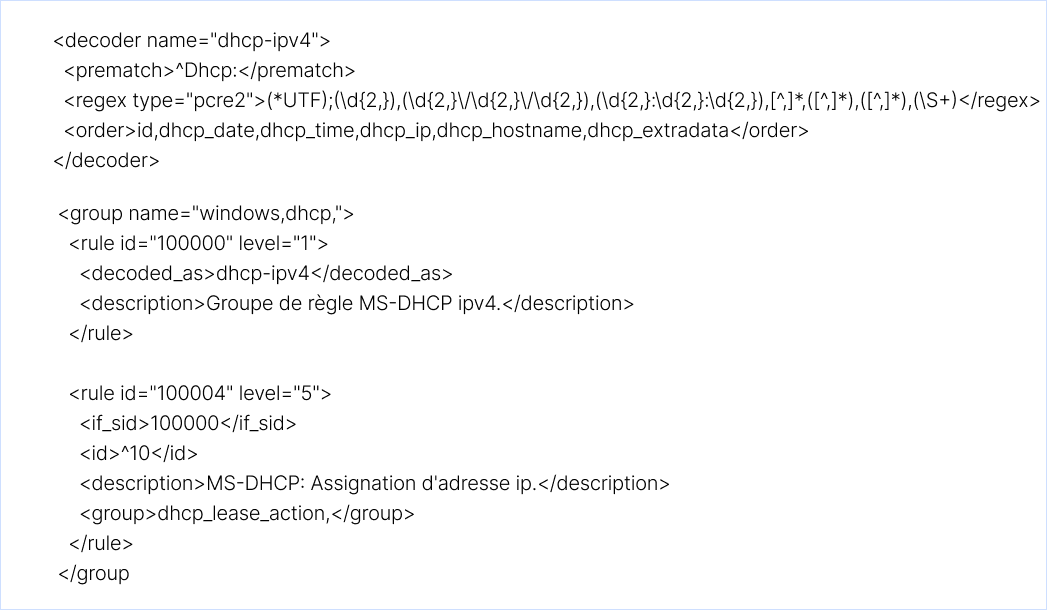
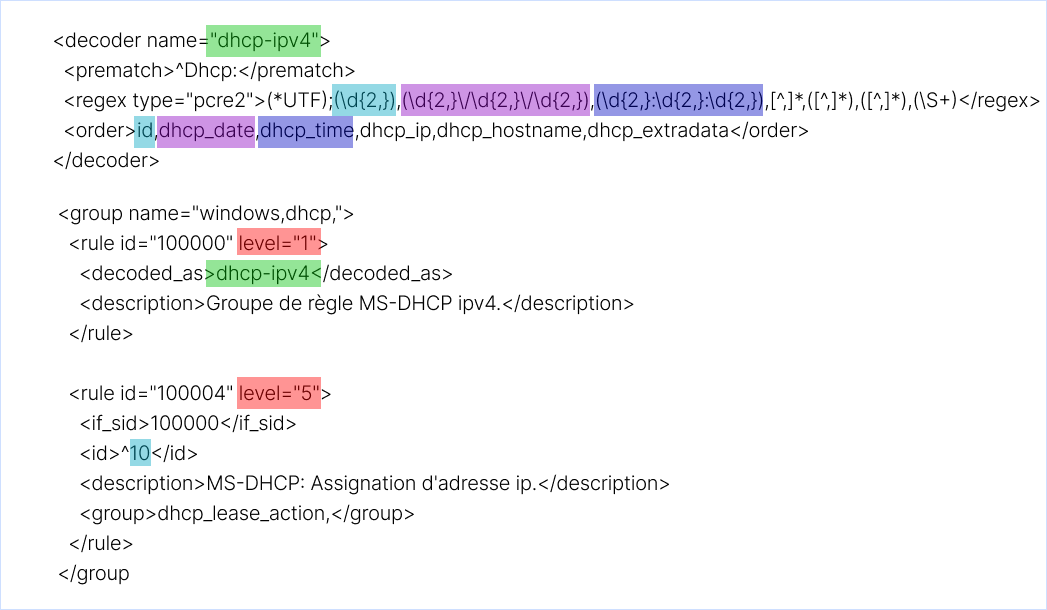
amelioration

diff --git a/public/pages/article-dhcp.html b/public/pages/article-dhcp.html
@@ -50,7 +50,7 @@
         <!--END NAVBAR-->
         <!--PRINCIPAL PART-->
         <div class="title-article">
-            Aspects technique des missions
+            Aspects techniques des missions
         </div>
         <div class="container-article">
             <div class="text-article1">
@@ -64,25 +64,31 @@
                 d’adresse IP, une plage d’adresse épuisée ou encore un bail refusé.<br><br>
                 Le serveur DHCP <span class="important">écrit quotidiennement</span> dans des fichiers <span
                     class="important">ce qu’il se passe en temps réel.</span> <br>
-                C’est pourquoi j’ai configuré l’agent Wazuh installé sur ce dernier afin qu’il puisse lire en temps réel
-                ce qu’il se passe et
+                C’est pourquoi j’ai configuré l’agent Wazuh installé sur ce dernier afin qu’il puisse lire ce fichier de
+                log en temps réel
+                et
                 remonter les informations au serveur Wazuh.<br><br><br>
-                Voici comment ça fonctionne :<br><br>
+                Voici comment le processus fonctionne :<br><br>
                 <div class="schema-explicatif">
-                    <img src="../img/log-collector.png" alt="log-collector" id="image-log-collector"><br>
-                    <img src="../img/schema-server-wazuh.png" alt="analyse-log" id="image-analyse-log">
+                    <img src="../img/log-collector.png" alt="log-collector" id="image-log-collector"
+                        class="clickable-image"><br>
+                    <img src="../img/schema-server-wazuh.png" alt="analyse-log" id="image-analyse-log"
+                        class="clickable-image">
                 </div><br><br><br>
+                <!-- Conteneur pour afficher l'image agrandie -->
+                <div id="image-modal" class="modal">
+                    <span class="close">&times;</span>
+                    <img class="modal-content" id="img01">
+                </div>
                 Une fois les informations remontées au serveur Wazuh, il va analyser les logs collectés avec les
                 décodeurs et les règles.<br>
-                Pour les logs DHCP j’ai dû créer <span class="important">un décodeur et des règles pour que le serveur
-                    puisse traiter les logs
-                    remontés.</span><br>
-                    <span class="important">Le décodeur</span> va permettre de <span class="important">décoder/lire les logs</span>, celui que j'ai créé décode l’id associé à l’évènement et d’autres
-                informations telles que la date, l’heure etc.<br><br>
-                Dans <span class="important">les règles</span> on retrouve le décodeur associé à la règle, l’id de l’évènement qu’on souhaite matcher
-                et enfin un niveau gravité sur notre règle, en fonction du niveau on sera alerté ou non de cet évènement.<br><br><br>
+                Pour les logs DHCP j’ai dû créer <span class="important">un décodeur avec la synthaxe regex et des règles pour que le serveur puisse traiter les logs remontés.</span><br>
+                <span class="important">Le décodeur</span> va permettre de <span class="important">décoder/lire les logs</span>, 
+                celui que j'ai créé décode <span class="id">l’id associé à l’évènement</span> et d’autres informations telles que <span class="date">la date</span>, <span class="time">l’heure </span>etc.<br><br>
+                Dans <span class="important">les règles</span> on retrouve <span class="decoded-as">le décodeur associé à la règle</span>, <span class="id">l’id de l’évènement</span> qu’on souhaite matcher (10)
+                et enfin <span class="severity">un niveau de gravité</span> sur notre règle, en fonction du niveau on sera alerté ou non de cet évènement.<br><br><br>
                 Voici un exemple de décodeur et de règles que j’ai créé pour les logs DHCP :<br><br>
-                <img src="../img/dhcp.png" alt="decodeur" id="image-decodeur"><br><br>
+                <img src="../img/dhcp.png" alt="decodeur" id="image-decodeur" class="clickable-image"><br><br>
             </div>
             <br>
             <br>
@@ -93,6 +99,7 @@
             <a href="../pages/article.html" class="retour">Retour</a>
         </div>
     </div>
+    <script src="../script/big-up.js"></script>
 </body>
 <!--FOOTER-->
 <footer>
@@ -107,7 +114,7 @@
                         <img src="../img/linkedin.png" alt="logo" id="logo-footer" class="logo-linkedin">
                     </a>
                     <a href="https://github.com/pcrdemma">
-                        <img src="../img/github.png" alt="logo" id="logo-footer"class="logo-github">
+                        <img src="../img/github.png" alt="logo" id="logo-footer" class="logo-github">
                     </a>
                 </div>
             </div>

diff --git a/public/style/article-dhcp.css b/public/style/article-dhcp.css
@@ -78,6 +78,74 @@ a {
     color: black;
 }
 
+/* Style pour l'image clickable */
+.clickable-image {
+    cursor: pointer;
+    transition: 0.3s;
+  }
+  
+  .clickable-image:hover {
+    opacity: 0.7;
+  }
+  
+  /* Le modal (fenêtre qui affiche l'image agrandie) */
+  .modal {
+    display: none;
+    position: fixed;
+    z-index: 1000;
+    padding-top: 60px;
+    left: 0;
+    top: 0;
+    width: 100%;
+    height: 100%;
+    overflow: auto;
+    background-color: rgba(0, 0, 0, 0.8);
+  }
+  
+  .modal-content {
+    margin: auto;
+    display: block;
+    max-width: 80%;
+    max-height: 80%;
+  }
+  
+  .close {
+    position: absolute;
+    top: 30px;
+    right: 35px;
+    color: #fff;
+    font-size: 40px;
+    font-weight: bold;
+    cursor: pointer;
+}
+  
+  .close:hover,
+  .close:focus {
+    color: #bbb;
+    text-decoration: none;
+    cursor: pointer;
+  }
+
+  .id{
+    background-color: rgba(0, 164, 193, 0.42);
+  }
+
+  .date{
+    background-color: rgba(139, 0, 193, 0.42);
+  }
+
+  .time{
+    background-color: rgba(0, 6, 193, 0.42);
+  }
+
+  .decoded-as{
+    background-color: rgba(0, 193, 6, 0.42);
+  }
+   
+  .severity{
+    background-color: rgba(255, 0, 0, 0.42);
+  }
+
 @media screen and (max-width:768px) {
     .title-article {
         font-size: 30px;

diff --git a/public/pages/article.html b/public/pages/article.html
@@ -88,7 +88,7 @@
                             </div>
                             <div class="contenu-article">
                                 <div class="title-article">
-                                    Aspects technique
+                                    Aspects techniques
                                 </div>
                                 <div class="contenu">
                                     <p>Lors de mon stage j'ai vu quelques aspects technique</p>
@@ -112,7 +112,7 @@
                             </div>
                             <div class="contenu-article">
                                 <div class="title-article">
-                                    Aspects technique
+                                    Aspects techniques
                                 </div>
                                 <div class="contenu">
                                     <p>J'ai eu l'occasion de voir ce qu'était les protocoles</p>

diff --git a/public/script/big-up.js b/public/script/big-up.js
@@ -1,0 +1,29 @@
+// Sélectionner le modal
+let modal = document.getElementById("image-modal");
+
+// Sélectionner l'image qui sera affichée dans le modal
+let modalImg = document.getElementById("img01");
+
+// Sélectionner toutes les images cliquables
+let images = document.getElementsByClassName("clickable-image");
+
+// Ajouter un événement de clic à chaque image
+for (let i = 0; i < images.length; i++) {
+  images[i].onclick = function(){
+    modal.style.display = "block";
+    modalImg.src = this.src;
+  }
+}
+
+// Fermer le modal lorsqu'on clique sur la croix
+let span = document.getElementsByClassName("close")[0];
+span.onclick = function() { 
+  modal.style.display = "none";
+}
+
+// Fermer le modal lorsqu'on clique en dehors de l'image
+modal.onclick = function(event) {
+  if (event.target == modal) {
+    modal.style.display = "none";
+  }
+}

diff --git a/public/pages/article-mission-principale.html b/public/pages/article-mission-principale.html
@@ -58,7 +58,7 @@
                 été confiée, était de faire
                 un audit des activités systèmes au travers des logs et de centraliser ces derniers à l’aide d’une
                 plateforme prénomée <span class="important">Wazuh</span> qui comprend
-                la solution SIEM.<br><br>
+                un SIEM.<br><br>
                 <span class="important">La gestion des évènements et des informations de sécurité (SIEM)</span> est un
                 domaine de la sécurité
                 informatique, au sein duquel les produits

diff --git a/public/pages/article-kerberos-ntlm.html b/public/pages/article-kerberos-ntlm.html
@@ -50,7 +50,7 @@
         <!--END NAVBAR-->
         <!--PRINCIPAL PART-->
         <div class="title-article">
-            Aspects technique des missions
+            Aspects techniques des missions
         </div>
         <div class="container-article">
             <div class="text-article1">
